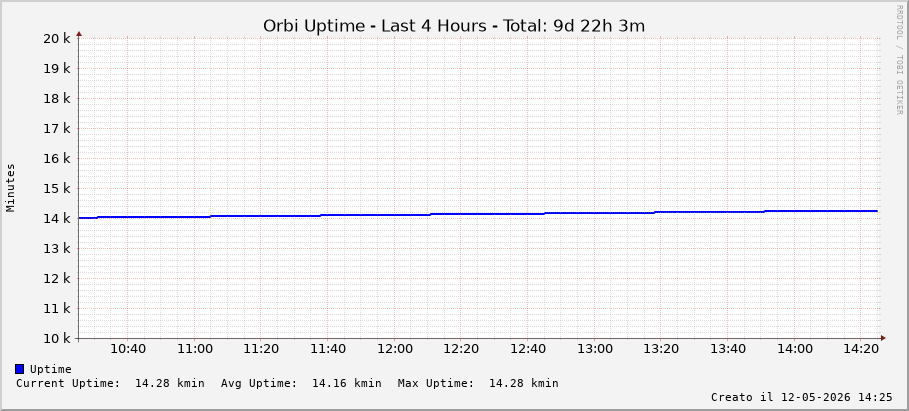
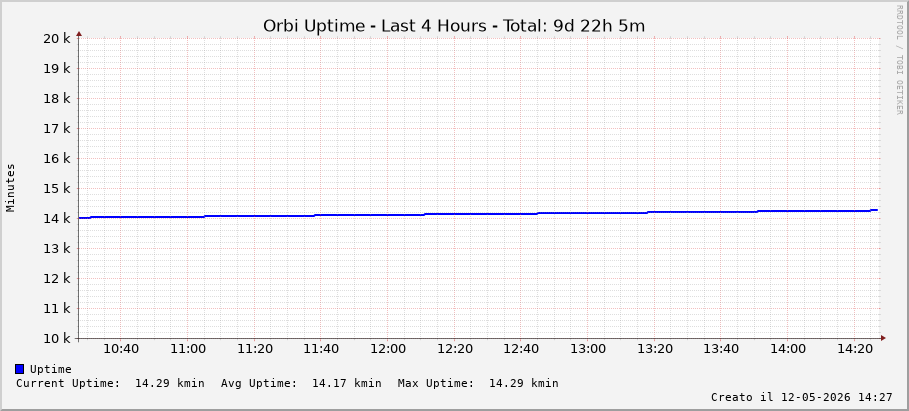
RBR50 update 2026-05-12 14:28:02

diff --git a/index.html b/index.html
@@ -41,38 +41,38 @@
 
 <div class="graph-container">
     <h2>Ultime 4 Ore</h2>
-    <img class="graph" src="images/orbi_traffic_1h.png?v=1778588762" alt="Traffico Ultima Ora">
-    <img class="graph" src="images/orbi_uptime_1h.png?v=1778588762" alt="Uptime Ultima Ora">
+    <img class="graph" src="images/orbi_traffic_1h.png?v=1778588882" alt="Traffico Ultima Ora">
+    <img class="graph" src="images/orbi_uptime_1h.png?v=1778588882" alt="Uptime Ultima Ora">
 </div>
 
 <div class="graph-container">
     <h2>Ultimo Giorno</h2>
-    <img class="graph" src="images/orbi_traffic_1d.png?v=1778588762" alt="Traffico Ultimo Giorno">
-    <img class="graph" src="images/orbi_uptime_1d.png?v=1778588762" alt="Uptime Ultimo Giorno">
+    <img class="graph" src="images/orbi_traffic_1d.png?v=1778588882" alt="Traffico Ultimo Giorno">
+    <img class="graph" src="images/orbi_uptime_1d.png?v=1778588882" alt="Uptime Ultimo Giorno">
 </div>
 
 <div class="graph-container">
     <h2>Ultima Settimana</h2>
-    <img class="graph" src="images/orbi_traffic_1w.png?v=1778588762" alt="Traffico Ultima Settimana">
-    <img class="graph" src="images/orbi_uptime_1w.png?v=1778588762" alt="Uptime Ultima Settimana">
+    <img class="graph" src="images/orbi_traffic_1w.png?v=1778588882" alt="Traffico Ultima Settimana">
+    <img class="graph" src="images/orbi_uptime_1w.png?v=1778588882" alt="Uptime Ultima Settimana">
 </div>
 
 <div class="graph-container">
     <h2>Ultimo Mese</h2>
-    <img class="graph" src="images/orbi_traffic_1m.png?v=1778588762" alt="Traffico Ultimo Mese">
-    <img class="graph" src="images/orbi_uptime_1m.png?v=1778588762" alt="Uptime Ultimo Mese">
+    <img class="graph" src="images/orbi_traffic_1m.png?v=1778588882" alt="Traffico Ultimo Mese">
+    <img class="graph" src="images/orbi_uptime_1m.png?v=1778588882" alt="Uptime Ultimo Mese">
 </div>
 
 <div class="graph-container">
     <h2>Ultimo Anno</h2>
-    <img class="graph" src="images/orbi_traffic_1y.png?v=1778588762" alt="Traffico Ultimo Anno">
-    <img class="graph" src="images/orbi_uptime_1y.png?v=1778588762" alt="Uptime Ultimo Anno">
+    <img class="graph" src="images/orbi_traffic_1y.png?v=1778588882" alt="Traffico Ultimo Anno">
+    <img class="graph" src="images/orbi_uptime_1y.png?v=1778588882" alt="Uptime Ultimo Anno">
 </div>
 
 <div class="graph-container">
     <h2>Ultimi 5 Anni</h2>
-    <img class="graph" src="images/orbi_traffic_5y.png?v=1778588762" alt="Traffico Ultimi 5 Anni">
-    <img class="graph" src="images/orbi_uptime_5y.png?v=1778588762" alt="Uptime Ultimi 5 Anni">
+    <img class="graph" src="images/orbi_traffic_5y.png?v=1778588882" alt="Traffico Ultimi 5 Anni">
+    <img class="graph" src="images/orbi_uptime_5y.png?v=1778588882" alt="Uptime Ultimi 5 Anni">
 </div>
 
 <div class="footer">
